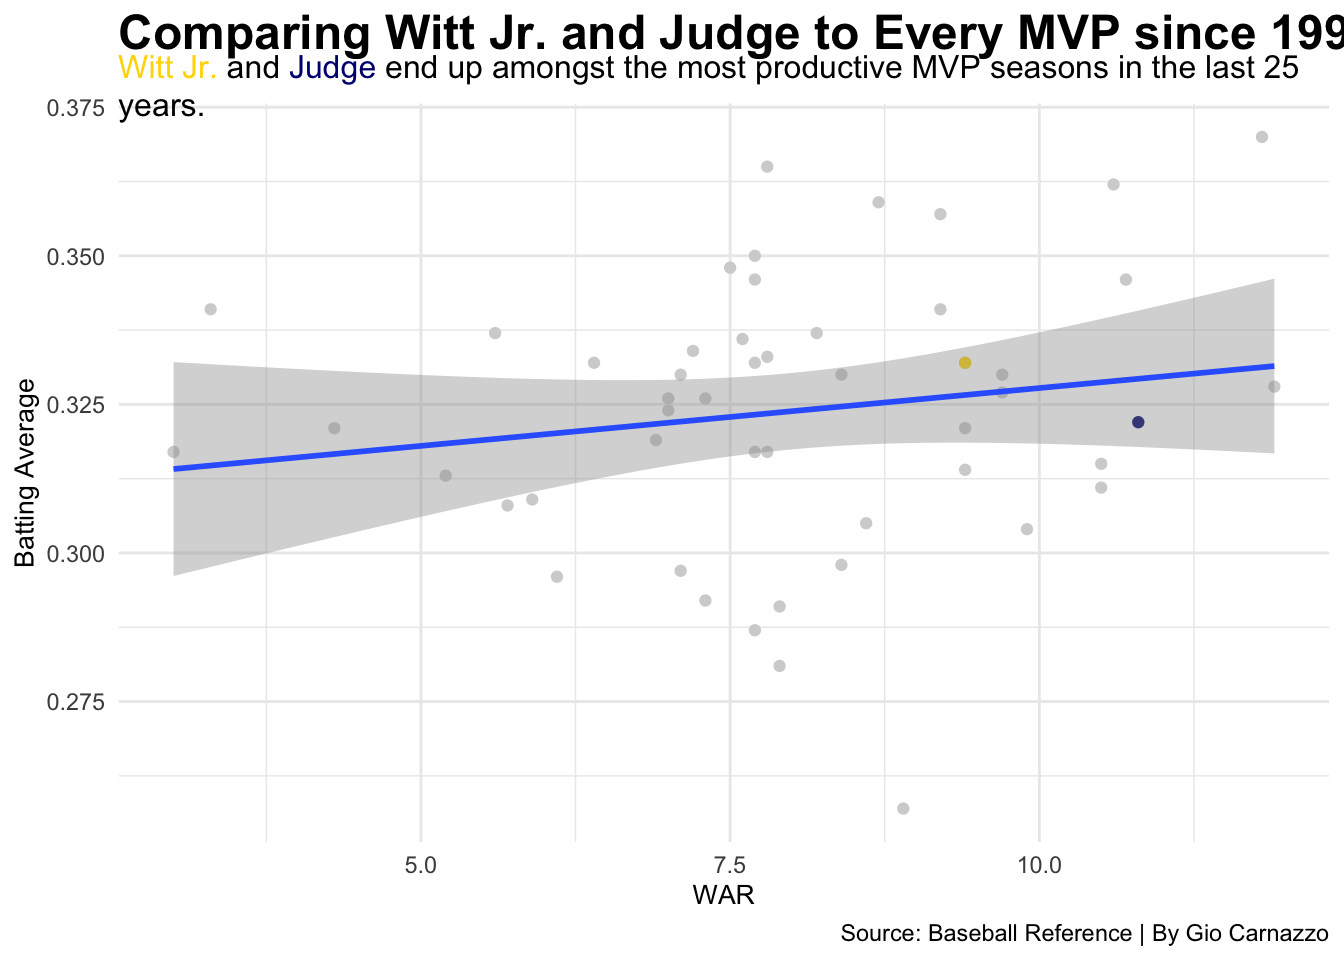
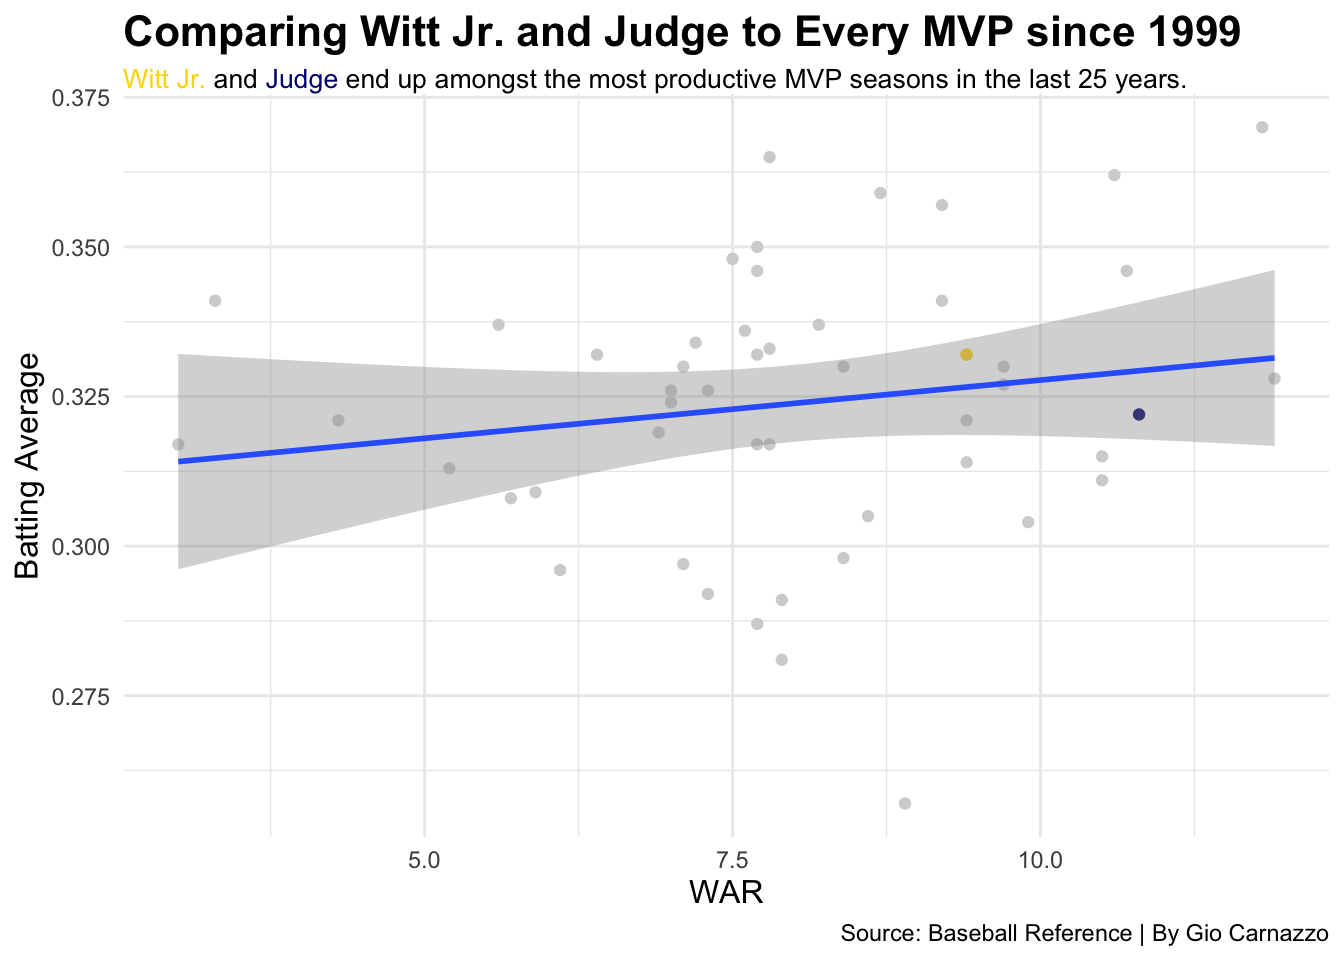
HEAD SUB FORMAT

diff --git a/posts/bobby-witt-jr-baseball-mlb-mvp-race/index.html b/posts/bobby-witt-jr-baseball-mlb-mvp-race/index.html
@@ -253,33 +253,39 @@ pre > code.sourceCode > span > a:first-child::before { text-decoration: underlin
 <div class="cell">
 <details class="code-fold">
 <summary>Code</summary>
-<div class="sourceCode cell-code" id="cb3"><pre class="sourceCode r code-with-copy"><code class="sourceCode r"><span id="cb3-1"><a href="#cb3-1" aria-hidden="true" tabindex="-1"></a>bobby_mvp_data <span class="ot">&lt;-</span> <span class="fu">read_csv</span>(<span class="st">"data/mvp.csv"</span>)</span>
-<span id="cb3-2"><a href="#cb3-2" aria-hidden="true" tabindex="-1"></a></span>
-<span id="cb3-3"><a href="#cb3-3" aria-hidden="true" tabindex="-1"></a>mvp_position <span class="ot">&lt;-</span> bobby_mvp_data <span class="sc">|&gt;</span></span>
-<span id="cb3-4"><a href="#cb3-4" aria-hidden="true" tabindex="-1"></a>  <span class="fu">filter</span>(WAR <span class="sc">&gt;</span> <span class="dv">0</span> <span class="sc">&amp;</span> BA <span class="sc">&gt;</span> <span class="fl">0.2</span>)</span>
-<span id="cb3-5"><a href="#cb3-5" aria-hidden="true" tabindex="-1"></a></span>
-<span id="cb3-6"><a href="#cb3-6" aria-hidden="true" tabindex="-1"></a>bob <span class="ot">&lt;-</span> mvp_position <span class="sc">|&gt;</span> <span class="fu">filter</span>(Name <span class="sc">==</span> <span class="st">"Bobby Witt Jr."</span>)</span>
-<span id="cb3-7"><a href="#cb3-7" aria-hidden="true" tabindex="-1"></a></span>
-<span id="cb3-8"><a href="#cb3-8" aria-hidden="true" tabindex="-1"></a>aj <span class="ot">&lt;-</span> mvp_position <span class="sc">|&gt;</span> <span class="fu">filter</span>(Name <span class="sc">==</span> <span class="st">"Aaron Judge"</span>, Year <span class="sc">==</span> <span class="st">"2024"</span>)</span>
-<span id="cb3-9"><a href="#cb3-9" aria-hidden="true" tabindex="-1"></a></span>
-<span id="cb3-10"><a href="#cb3-10" aria-hidden="true" tabindex="-1"></a><span class="fu">ggplot</span>() <span class="sc">+</span> </span>
-<span id="cb3-11"><a href="#cb3-11" aria-hidden="true" tabindex="-1"></a>  <span class="fu">geom_point</span>(<span class="at">data =</span> mvp_position, <span class="fu">aes</span>(<span class="at">x =</span> WAR, <span class="at">y =</span> BA), <span class="at">color=</span><span class="st">"lightgrey"</span>) <span class="sc">+</span></span>
-<span id="cb3-12"><a href="#cb3-12" aria-hidden="true" tabindex="-1"></a>  <span class="fu">geom_point</span>(<span class="at">data =</span> bob, <span class="fu">aes</span>(<span class="at">x =</span> WAR, <span class="at">y =</span> BA), <span class="at">color=</span><span class="st">"gold"</span>) <span class="sc">+</span></span>
-<span id="cb3-13"><a href="#cb3-13" aria-hidden="true" tabindex="-1"></a>  <span class="fu">geom_point</span>(<span class="at">data =</span> aj, <span class="fu">aes</span>(<span class="at">x =</span> WAR, <span class="at">y =</span> BA), <span class="at">color=</span><span class="st">"navy"</span>) <span class="sc">+</span></span>
-<span id="cb3-14"><a href="#cb3-14" aria-hidden="true" tabindex="-1"></a>  <span class="fu">geom_smooth</span>(<span class="at">data =</span> mvp_position, <span class="fu">aes</span>(<span class="at">x =</span> WAR, <span class="at">y =</span> BA), <span class="at">method=</span><span class="st">"lm"</span>) <span class="sc">+</span></span>
-<span id="cb3-15"><a href="#cb3-15" aria-hidden="true" tabindex="-1"></a>  <span class="fu">theme_minimal</span>() <span class="sc">+</span></span>
-<span id="cb3-16"><a href="#cb3-16" aria-hidden="true" tabindex="-1"></a>  <span class="fu">labs</span>(</span>
-<span id="cb3-17"><a href="#cb3-17" aria-hidden="true" tabindex="-1"></a>       <span class="at">x =</span> <span class="st">"WAR"</span>,</span>
-<span id="cb3-18"><a href="#cb3-18" aria-hidden="true" tabindex="-1"></a>       <span class="at">y =</span> <span class="st">"Batting Average"</span>, </span>
-<span id="cb3-19"><a href="#cb3-19" aria-hidden="true" tabindex="-1"></a>       <span class="at">title =</span> <span class="st">"Comparing Witt Jr. and Judge to Every MVP since 1999"</span>,</span>
-<span id="cb3-20"><a href="#cb3-20" aria-hidden="true" tabindex="-1"></a>       <span class="at">subtitle =</span> <span class="st">"&lt;span style = 'color:gold;'&gt;Witt Jr.&lt;/span&gt; and &lt;span style = 'color:navy;'&gt;Judge&lt;/span&gt; end up amongst the most productive MVP seasons in the last 25 years."</span>,</span>
-<span id="cb3-21"><a href="#cb3-21" aria-hidden="true" tabindex="-1"></a>       <span class="at">caption=</span><span class="st">"Source: Baseball Reference | By Gio Carnazzo"</span>) <span class="sc">+</span></span>
-<span id="cb3-22"><a href="#cb3-22" aria-hidden="true" tabindex="-1"></a>  <span class="fu">theme</span>(</span>
-<span id="cb3-23"><a href="#cb3-23" aria-hidden="true" tabindex="-1"></a>    <span class="at">plot.title =</span> <span class="fu">element_text</span>(<span class="at">size =</span> <span class="dv">18</span>, <span class="at">face =</span> <span class="st">"bold"</span>),</span>
-<span id="cb3-24"><a href="#cb3-24" aria-hidden="true" tabindex="-1"></a>    <span class="at">plot.subtitle =</span> <span class="fu">element_textbox_simple</span>(<span class="at">size =</span> <span class="dv">12</span>),</span>
-<span id="cb3-25"><a href="#cb3-25" aria-hidden="true" tabindex="-1"></a>    <span class="at">axis.title =</span> <span class="fu">element_text</span>(<span class="at">size =</span> <span class="dv">10</span>),</span>
-<span id="cb3-26"><a href="#cb3-26" aria-hidden="true" tabindex="-1"></a>    <span class="at">panel.grid.minor =</span> <span class="fu">element_line</span>()</span>
-<span id="cb3-27"><a href="#cb3-27" aria-hidden="true" tabindex="-1"></a>  )</span></code><button title="Copy to Clipboard" class="code-copy-button"><i class="bi"></i></button></pre></div>
+<div class="sourceCode cell-code" id="cb3"><pre class="sourceCode r code-with-copy"><code class="sourceCode r"><span id="cb3-1"><a href="#cb3-1" aria-hidden="true" tabindex="-1"></a><span class="fu">library</span>(tidyverse)</span>
+<span id="cb3-2"><a href="#cb3-2" aria-hidden="true" tabindex="-1"></a><span class="fu">library</span>(ggrepel)</span>
+<span id="cb3-3"><a href="#cb3-3" aria-hidden="true" tabindex="-1"></a><span class="fu">library</span>(ggtext)</span>
+<span id="cb3-4"><a href="#cb3-4" aria-hidden="true" tabindex="-1"></a><span class="fu">library</span>(ggalt)</span>
+<span id="cb3-5"><a href="#cb3-5" aria-hidden="true" tabindex="-1"></a><span class="fu">library</span>(gt)</span>
+<span id="cb3-6"><a href="#cb3-6" aria-hidden="true" tabindex="-1"></a></span>
+<span id="cb3-7"><a href="#cb3-7" aria-hidden="true" tabindex="-1"></a>bobby_mvp_data <span class="ot">&lt;-</span> <span class="fu">read_csv</span>(<span class="st">"data/mvp.csv"</span>)</span>
+<span id="cb3-8"><a href="#cb3-8" aria-hidden="true" tabindex="-1"></a></span>
+<span id="cb3-9"><a href="#cb3-9" aria-hidden="true" tabindex="-1"></a>mvp_position <span class="ot">&lt;-</span> bobby_mvp_data <span class="sc">|&gt;</span></span>
+<span id="cb3-10"><a href="#cb3-10" aria-hidden="true" tabindex="-1"></a>  <span class="fu">filter</span>(WAR <span class="sc">&gt;</span> <span class="dv">0</span> <span class="sc">&amp;</span> BA <span class="sc">&gt;</span> <span class="fl">0.2</span>)</span>
+<span id="cb3-11"><a href="#cb3-11" aria-hidden="true" tabindex="-1"></a></span>
+<span id="cb3-12"><a href="#cb3-12" aria-hidden="true" tabindex="-1"></a>bob <span class="ot">&lt;-</span> mvp_position <span class="sc">|&gt;</span> <span class="fu">filter</span>(Name <span class="sc">==</span> <span class="st">"Bobby Witt Jr."</span>)</span>
+<span id="cb3-13"><a href="#cb3-13" aria-hidden="true" tabindex="-1"></a></span>
+<span id="cb3-14"><a href="#cb3-14" aria-hidden="true" tabindex="-1"></a>aj <span class="ot">&lt;-</span> mvp_position <span class="sc">|&gt;</span> <span class="fu">filter</span>(Name <span class="sc">==</span> <span class="st">"Aaron Judge"</span>, Year <span class="sc">==</span> <span class="st">"2024"</span>)</span>
+<span id="cb3-15"><a href="#cb3-15" aria-hidden="true" tabindex="-1"></a></span>
+<span id="cb3-16"><a href="#cb3-16" aria-hidden="true" tabindex="-1"></a><span class="fu">ggplot</span>() <span class="sc">+</span> </span>
+<span id="cb3-17"><a href="#cb3-17" aria-hidden="true" tabindex="-1"></a>  <span class="fu">geom_point</span>(<span class="at">data =</span> mvp_position, <span class="fu">aes</span>(<span class="at">x =</span> WAR, <span class="at">y =</span> BA), <span class="at">color=</span><span class="st">"lightgrey"</span>) <span class="sc">+</span></span>
+<span id="cb3-18"><a href="#cb3-18" aria-hidden="true" tabindex="-1"></a>  <span class="fu">geom_point</span>(<span class="at">data =</span> bob, <span class="fu">aes</span>(<span class="at">x =</span> WAR, <span class="at">y =</span> BA), <span class="at">color=</span><span class="st">"gold"</span>) <span class="sc">+</span></span>
+<span id="cb3-19"><a href="#cb3-19" aria-hidden="true" tabindex="-1"></a>  <span class="fu">geom_point</span>(<span class="at">data =</span> aj, <span class="fu">aes</span>(<span class="at">x =</span> WAR, <span class="at">y =</span> BA), <span class="at">color=</span><span class="st">"navy"</span>) <span class="sc">+</span></span>
+<span id="cb3-20"><a href="#cb3-20" aria-hidden="true" tabindex="-1"></a>  <span class="fu">geom_smooth</span>(<span class="at">data =</span> mvp_position, <span class="fu">aes</span>(<span class="at">x =</span> WAR, <span class="at">y =</span> BA), <span class="at">method=</span><span class="st">"lm"</span>) <span class="sc">+</span></span>
+<span id="cb3-21"><a href="#cb3-21" aria-hidden="true" tabindex="-1"></a>  <span class="fu">theme_minimal</span>() <span class="sc">+</span></span>
+<span id="cb3-22"><a href="#cb3-22" aria-hidden="true" tabindex="-1"></a>  <span class="fu">labs</span>(</span>
+<span id="cb3-23"><a href="#cb3-23" aria-hidden="true" tabindex="-1"></a>       <span class="at">x =</span> <span class="st">"WAR"</span>,</span>
+<span id="cb3-24"><a href="#cb3-24" aria-hidden="true" tabindex="-1"></a>       <span class="at">y =</span> <span class="st">"Batting Average"</span>, </span>
+<span id="cb3-25"><a href="#cb3-25" aria-hidden="true" tabindex="-1"></a>       <span class="at">title =</span> <span class="st">"Comparing Witt Jr. and Judge to Every MVP since 1999"</span>,</span>
+<span id="cb3-26"><a href="#cb3-26" aria-hidden="true" tabindex="-1"></a>       <span class="at">subtitle =</span> <span class="st">"&lt;span style = 'color:gold;'&gt;Witt Jr.&lt;/span&gt; and &lt;span style = 'color:navy;'&gt;Judge&lt;/span&gt; end up amongst the most productive MVP seasons in the last 25 years."</span>,</span>
+<span id="cb3-27"><a href="#cb3-27" aria-hidden="true" tabindex="-1"></a>       <span class="at">caption=</span><span class="st">"Source: Baseball Reference | By Gio Carnazzo"</span>) <span class="sc">+</span></span>
+<span id="cb3-28"><a href="#cb3-28" aria-hidden="true" tabindex="-1"></a>  <span class="fu">theme</span>(</span>
+<span id="cb3-29"><a href="#cb3-29" aria-hidden="true" tabindex="-1"></a>    <span class="at">plot.title =</span> <span class="fu">element_text</span>(<span class="at">size =</span> <span class="dv">16</span>, <span class="at">face =</span> <span class="st">"bold"</span>),</span>
+<span id="cb3-30"><a href="#cb3-30" aria-hidden="true" tabindex="-1"></a>    <span class="at">plot.subtitle =</span> <span class="fu">element_textbox_simple</span>(<span class="at">size =</span> <span class="dv">10</span>),</span>
+<span id="cb3-31"><a href="#cb3-31" aria-hidden="true" tabindex="-1"></a>    <span class="at">axis.title =</span> <span class="fu">element_text</span>(<span class="at">size =</span> <span class="dv">12</span>),</span>
+<span id="cb3-32"><a href="#cb3-32" aria-hidden="true" tabindex="-1"></a>    <span class="at">panel.grid.minor =</span> <span class="fu">element_line</span>()</span>
+<span id="cb3-33"><a href="#cb3-33" aria-hidden="true" tabindex="-1"></a>  )</span></code><button title="Copy to Clipboard" class="code-copy-button"><i class="bi"></i></button></pre></div>
 </details>
 <div class="cell-output-display">
 <div>

diff --git a/index.html b/index.html
@@ -200,7 +200,7 @@ window.Quarto = {
 
 <div class="quarto-listing quarto-listing-container-default" id="listing-listing">
 <div class="list quarto-listing-default">
-<div class="quarto-post image-right" data-index="0" data-categories="bWxiLGJhc2ViYWxsLGthbnNhcyBjaXR5IHJveWFscw==" data-listing-date-sort="1730790000000" data-listing-file-modified-sort="1731786819448" data-listing-date-modified-sort="NaN" data-listing-reading-time-sort="3" data-listing-word-count-sort="439">
+<div class="quarto-post image-right" data-index="0" data-categories="bWxiLGJhc2ViYWxsLGthbnNhcyBjaXR5IHJveWFscw==" data-listing-date-sort="1730790000000" data-listing-file-modified-sort="1731788585982" data-listing-date-modified-sort="NaN" data-listing-reading-time-sort="3" data-listing-word-count-sort="439">
 <div class="thumbnail">
 <p><a href="./posts/bobby-witt-jr-baseball-mlb-mvp-race/index.html" class="no-external"></a></p><a href="./posts/bobby-witt-jr-baseball-mlb-mvp-race/index.html" class="no-external">
 <p><img loading="lazy" src="./posts/bobby-witt-jr-baseball-mlb-mvp-race/image.png" class="thumbnail-image"></p>
